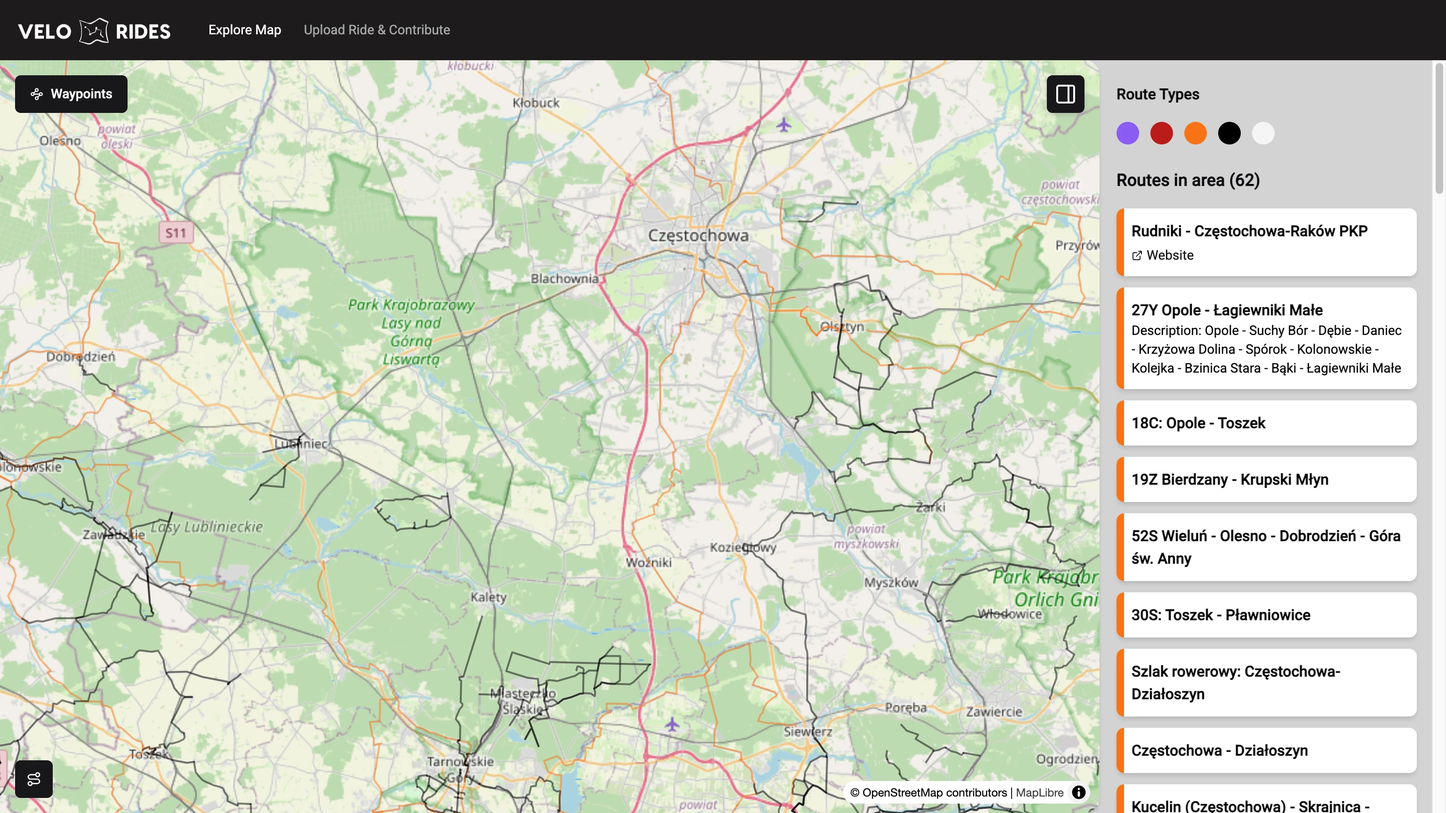
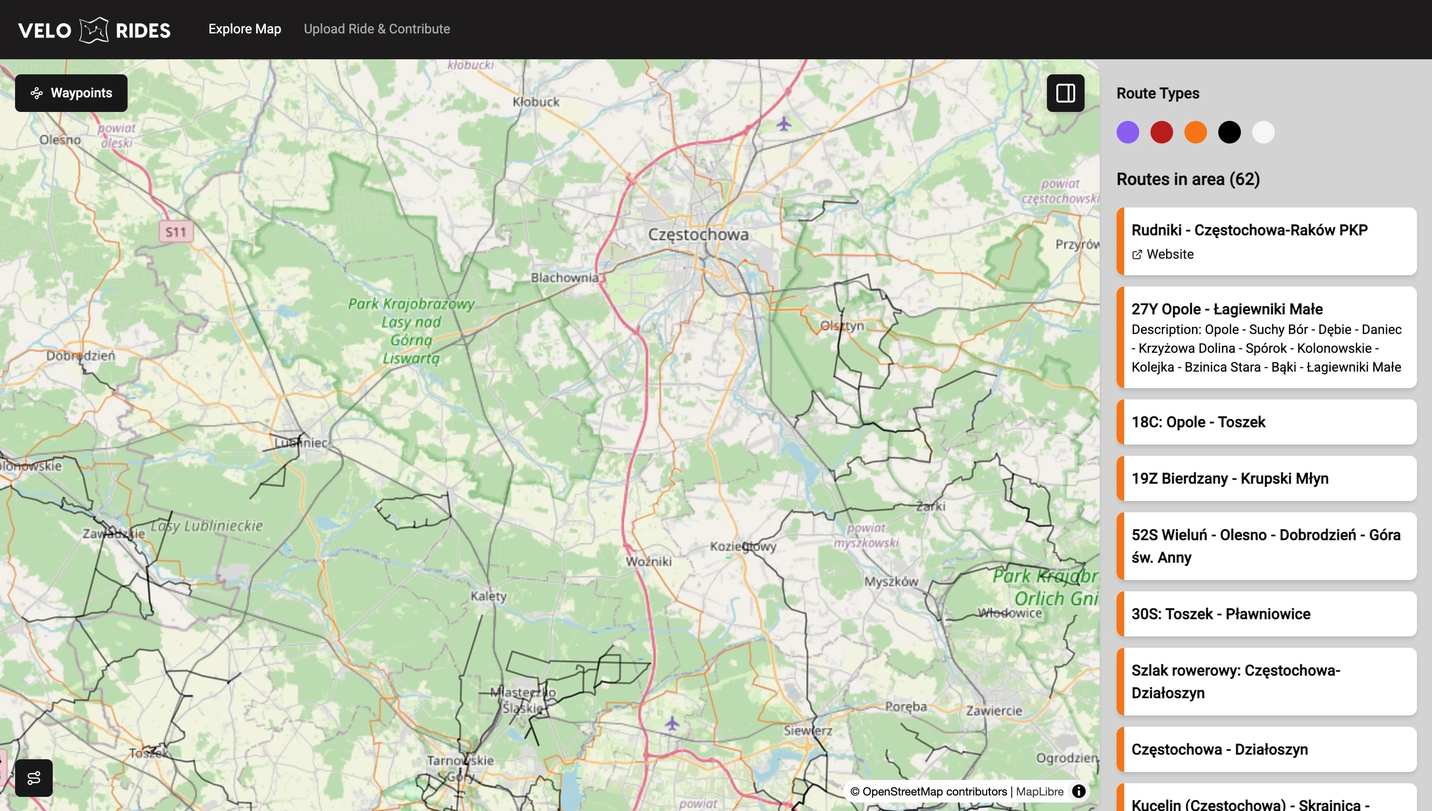
chore(ui): improve ui for mobile devices

diff --git a/apps/velo-rides/src/features/explore-map/explore-map.component.ts b/apps/velo-rides/src/features/explore-map/explore-map.component.ts
@@ -1,4 +1,4 @@
-import { Component, inject, signal } from '@angular/core';
+import { Component, inject } from '@angular/core';
 import { MatButtonModule } from '@angular/material/button';
 import { MatIconModule } from '@angular/material/icon';
 import { MatListModule } from '@angular/material/list';
@@ -6,7 +6,7 @@ import { MatSidenavModule } from '@angular/material/sidenav';
 import { RouterOutlet } from '@angular/router';
 import { hlm } from '@spartan-ng/brain/core';
 import { ExploreMapComponent } from './layouts/module-map/map.component';
-import { RouteStore } from '@velo/routes/data-access';
+import { RoutesStore, RouteStore } from '@velo/routes/data-access';
 
 @Component({
   standalone: true,
@@ -20,7 +20,7 @@ import { RouteStore } from '@velo/routes/data-access';
   ],
   template: `
     <mat-sidenav-container
-      class="!h-[calc(100vh-64px)] !top-16 !bg-sidebar-background"
+      class="md:!h-[calc(100vh-64px)] !h-[calc(100vh-56px)] md:!top-16 !top-14 !bg-sidebar-background"
     >
       <mat-sidenav-content
         [class]="
@@ -34,51 +34,39 @@ import { RouteStore } from '@velo/routes/data-access';
           [class]="
             hlm(
               'h-full rounded-r-2xl overflow-hidden shadow-md mr-2',
-              !sidenavIsOpen() && 'mr-0'
+              !$isSidebarOpen() && 'mr-0'
             )
           "
         >
           <velo-explore-map></velo-explore-map>
         </section>
       </mat-sidenav-content>
+
       <mat-sidenav
         #sidenav
         mode="side"
         position="end"
-        [opened]="sidenavIsOpen()"
-        (openedChange)="onSidenavChange()"
-        class="!bg-sidebar-background !border-sidebar-background !border-0 !-ml-1"
+        [opened]="$isSidebarOpen()"
+        class="velo-sidenav"
       >
-        <mat-nav-list>
+        <mat-nav-list class="velo-nav-list">
           <router-outlet></router-outlet>
         </mat-nav-list>
       </mat-sidenav>
     </mat-sidenav-container>
   `,
-  styles: [
-    `
-      :host {
-        display: block;
-        height: 100vh;
-        width: 100%;
-      }
-      mat-sidenav-container {
-        height: 100%;
-      }
-    `,
-  ],
+  styleUrls: ['./explore-map.component.scss'],
 })
 export class ExploreMapViewComponent {
   protected readonly hlm = hlm;
+
+  private readonly routesStore = inject(RoutesStore);
   private readonly routeStore = inject(RouteStore);
 
-  sidenavIsOpen = signal(true);
-
   $selectedRoute = this.routeStore.selectedRoute;
+  $isSidebarOpen = this.routesStore.isSidebarOpen;
 
   toggleSidenav() {
-    this.sidenavIsOpen.update((isOpen) => !isOpen);
+    this.routesStore.toggleSidebar();
   }
-
-  onSidenavChange() {}
 }

diff --git a/apps/velo-rides/src/features/explore-map/layouts/module-map/components/filters/filters-route.component.ts b/apps/velo-rides/src/features/explore-map/layouts/module-map/components/filters/filters-route.component.ts
@@ -14,6 +14,7 @@ import { HlmLabelDirective } from '@spartan-ng/ui-label-helm';
 import { MapStore } from '@velo/maps/data-access';
 import { RouteType } from 'libs/routes/data-access/src/models/routes';
 import { RoutesStore, RouteStore } from '@velo/routes/data-access';
+import { hlm } from '@spartan-ng/brain/core';
 
 @Component({
   standalone: true,
@@ -31,7 +32,9 @@ import { RoutesStore, RouteStore } from '@velo/routes/data-access';
   ],
   providers: [provideIcons({ lucideRoute })],
   template: `
-    <div class="absolute bottom-4 left-4">
+    <div
+      [class]="hlm('absolute bottom-4 left-4', $isSidebarOpen() && 'left-4')"
+    >
       <brn-popover sideOffset="12" closeDelay="100" align="start">
         <button
           id="edit-profile"
@@ -90,10 +93,12 @@ import { RoutesStore, RouteStore } from '@velo/routes/data-access';
   `,
 })
 export class FiltersRouteComponent {
+  readonly hlm = hlm;
   private readonly mapStore = inject(MapStore);
   private readonly routesStore = inject(RoutesStore);
   private readonly routeStore = inject(RouteStore);
 
+  $isSidebarOpen = this.routesStore.isSidebarOpen;
   $selectedRouteType = this.routesStore.selectedRouteType;
 
   changeRouteType(routeType: RouteType) {

diff --git a/apps/velo-rides/src/features/explore-map/layouts/module-map/components/filters/filters-waypoints.component.ts b/apps/velo-rides/src/features/explore-map/layouts/module-map/components/filters/filters-waypoints.component.ts
@@ -12,6 +12,8 @@ import {
 } from '@spartan-ng/ui-menu-helm';
 import { WaypointsStore } from '@velo/waypoints/data-access';
 import { ViewpointType } from 'libs/waypoints/data-access/src/models/viewpoint';
+import { hlm } from '@spartan-ng/brain/core';
+import { RoutesStore } from '@velo/routes/data-access';
 
 @Component({
   selector: 'filters-waypoints',
@@ -28,7 +30,7 @@ import { ViewpointType } from 'libs/waypoints/data-access/src/models/viewpoint';
   ],
   providers: [provideIcons({ lucideBinoculars, lucideWaypoints })],
   template: `
-    <div class="absolute top-4 left-4">
+    <div [class]="hlm('absolute top-4 left-4', $isSidebarOpen() && 'hidden')">
       <div class="flex w-full items-center justify-center">
         <button
           hlmBtn
@@ -63,8 +65,11 @@ import { ViewpointType } from 'libs/waypoints/data-access/src/models/viewpoint';
   `,
 })
 export class FiltersWaypointsComponent {
+  readonly hlm = hlm;
   private readonly waypointsStore = inject(WaypointsStore);
+  private readonly routesStore = inject(RoutesStore);
 
+  $isSidebarOpen = this.routesStore.isSidebarOpen;
   $selectedViewpoint = this.waypointsStore.selectedViewpoint;
 
   viewpointChecked = signal(

diff --git a/apps/velo-rides/src/features/explore-map/edit/edit-route.component.html b/apps/velo-rides/src/features/explore-map/edit/edit-route.component.html
@@ -147,12 +147,13 @@
     <velo-route-ways [routeWays]="$routeWays()"></velo-route-ways>
   }
 
-  <div class="bottom-0 right-4 py-4 pl-5 pr-3.5 bg-gray-300 flex gap-2 mt-4 w-[22rem] fixed justify-between">
-    <button
-      hlmBtn
+  @if (!$isLoadingWays()) {
+    <div class="bottom-0 right-1 md:right-4 py-4 pl-5 pr-3.5 bg-gray-300 flex gap-2 mt-4 w-[283px] md:w-[412px] fixed justify-between">
+      <button
+        hlmBtn
       variant="outline"
       (click)="exportRouteToGpx()"
-      class="flex items-center gap-2"
+      class="flex items-center gap-2 text-sm md:text-base px-3 md:px-4"
     >
       <ng-icon name="lucide:download" class="!size-4"></ng-icon>
 
@@ -165,7 +166,7 @@
         target="_blank"
         hlmBtn
         variant="default"
-        class="flex items-center gap-2"
+        class="flex items-center gap-2 text-sm md:text-base px-3 md:px-4"
       >
         Update Route
       </a>
@@ -178,5 +179,6 @@
         Update Route
       </button>
     }
-  </div>
+    </div>
+  }
 </section>

diff --git a/libs/routes/data-access/src/models/routes.ts b/libs/routes/data-access/src/models/routes.ts
@@ -15,6 +15,7 @@ interface RoutesListState {
 interface RoutesInteractionState {
   selectedRouteType: RouteType[];
   hoveredRouteFeedId: string | null;
+  isSidebarOpen: boolean;
 }
 
 interface RoutesListConfig {
@@ -36,6 +37,7 @@ const routesInitialState: RoutesListState = {
 const routesInteractionInitialState: RoutesInteractionState = {
   selectedRouteType: ['lcn', 'rcn', 'ncn', 'icn'] as RouteType[],
   hoveredRouteFeedId: null,
+  isSidebarOpen: true,
 };
 
 export type {

diff --git a/libs/routes/data-access/src/routes.store.ts b/libs/routes/data-access/src/routes.store.ts
@@ -78,6 +78,11 @@ export const RoutesStore = signalStore(
     setHoveredRouteFeedId: rxMethod<string>(
       pipe(tap((id: string) => patchState(store, { hoveredRouteFeedId: id }))),
     ),
+    toggleSidebar: rxMethod<void>(
+      pipe(
+        tap(() => patchState(store, { isSidebarOpen: !store.isSidebarOpen() })),
+      ),
+    ),
   })),
   withCallState({ collection: 'getRoutes' }),
 );

diff --git a/apps/velo-rides/src/features/explore-map/explore-map.component.scss b/apps/velo-rides/src/features/explore-map/explore-map.component.scss
@@ -1,0 +1,17 @@
+:host {
+  display: block;
+  height: 100vh;
+  width: 100%;
+}
+
+mat-sidenav-container {
+  height: 100%;
+}
+
+.velo-sidenav {
+  @apply w-[280px] md:w-[420px] !bg-sidebar-background !border-sidebar-background !border-0 !-ml-1 !rounded-none;
+}
+
+.velo-nav-list {
+  @apply border-0 !rounded-none;
+}

diff --git a/apps/velo-rides/src/features/home/home.component.html b/apps/velo-rides/src/features/home/home.component.html
@@ -21,7 +21,7 @@
     </div>
   </div>
 
-  <div class="flex flex-col gap-4 h-[40rem] w-full overflow-hidden bg-gray-200 rounded-2xl">
+  <div class="flex flex-col gap-4 h-fit w-full overflow-hidden bg-gray-200 rounded-2xl">
     <img
       ngSrc="/hero.webp"
       alt="Application Overview"
